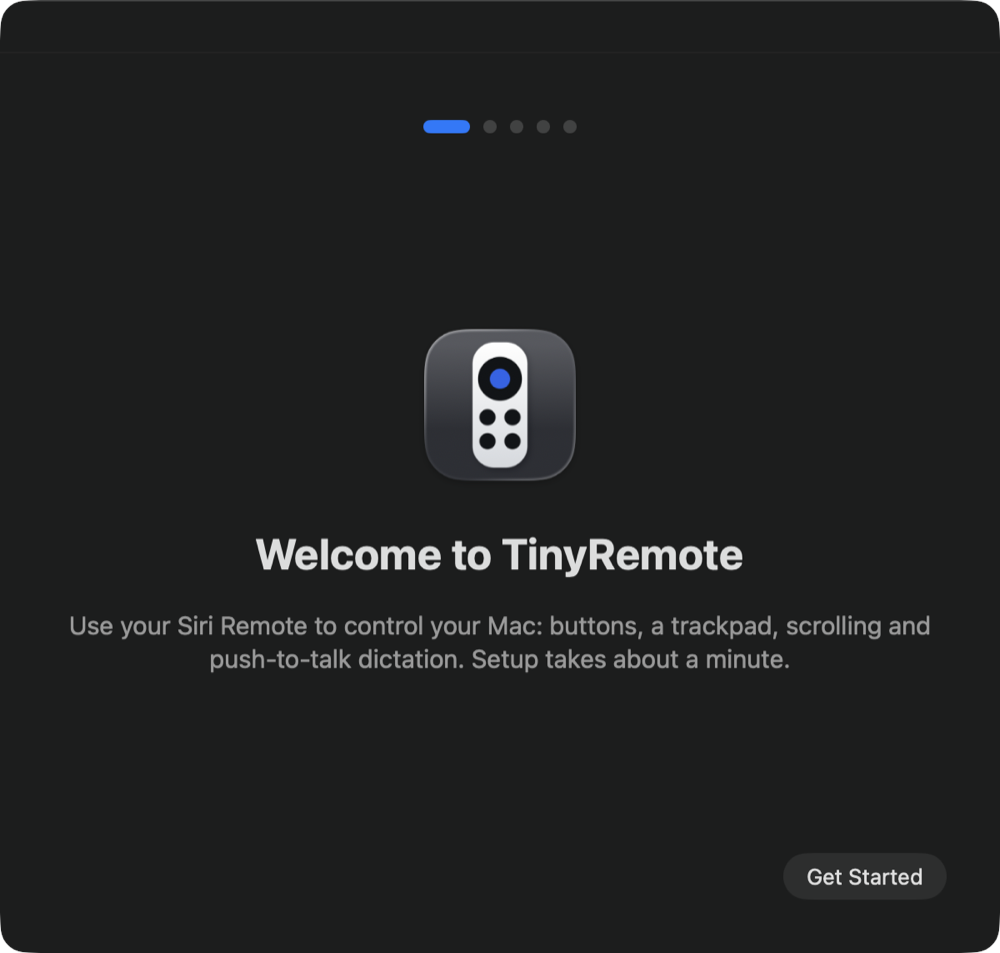
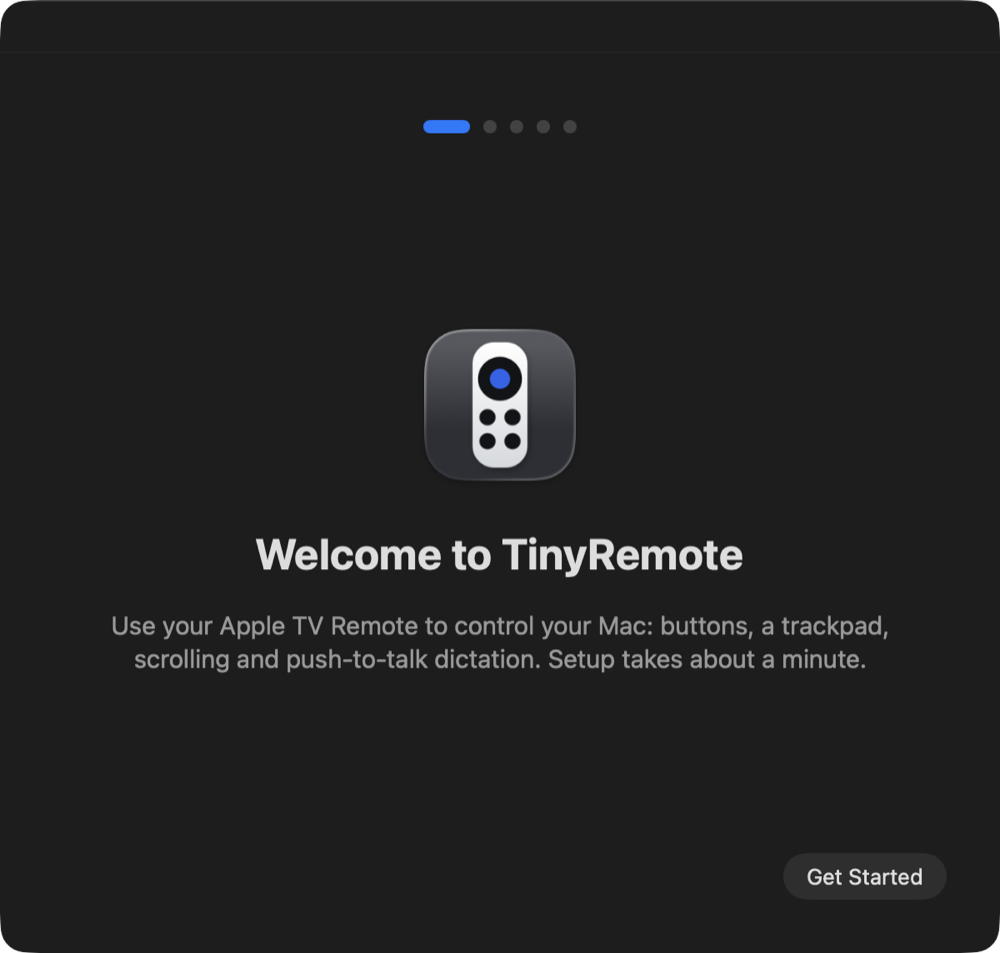
Call it the Apple TV Remote everywhere: app text, README, artwork, changelog

Changed region(s): [[0.062, 0.639, 0.93, 0.6999]]

diff --git a/tools/make-readme-art.swift b/tools/make-readme-art.swift
@@ -55,7 +55,7 @@ func banner(width: CGFloat, height: CGFloat, dark: Bool, path: String) {
         let textX = height * 0.12 + iconSize + height * 0.04
         let textWidth = width - textX - height * 0.1
         text("TinyRemote", NSPoint(x: textX, y: height * 0.26), size: height * 0.2, weight: .bold, color: .white, width: textWidth, height: height * 0.3, flip: flip)
-        text("Your Siri Remote, made for your Mac.", NSPoint(x: textX, y: height * 0.51), size: height * 0.075, weight: .medium,
+        text("Your Apple TV Remote, made for your Mac.", NSPoint(x: textX, y: height * 0.51), size: height * 0.075, weight: .medium,
              color: color(0xFFFFFF, 0.92), width: textWidth, height: height * 0.12, flip: flip)
         text("Remap every button · Trackpad · App-aware · Push-to-talk dictation", NSPoint(x: textX, y: height * 0.64),
              size: height * 0.048, color: color(0xFFFFFF, 0.7), width: textWidth, height: height * 0.1, flip: flip)
@@ -75,7 +75,7 @@ func socialPreview(path: String) {
         logo.draw(in: flip(NSRect(x: (width - 300) / 2, y: 30, width: 300, height: 300)))
         let center = width / 2, textWidth = width - 160
         text("TinyRemote", NSPoint(x: center, y: 330), size: 104, weight: .bold, color: .white, align: .center, width: textWidth, height: 130, flip: flip)
-        text("Your Siri Remote, made for your Mac.", NSPoint(x: center, y: 462), size: 44, weight: .medium,
+        text("Your Apple TV Remote, made for your Mac.", NSPoint(x: center, y: 462), size: 44, weight: .medium,
              color: color(0xFFFFFF, 0.92), align: .center, width: textWidth, height: 60, flip: flip)
         text("Remap every button · Trackpad · App-aware · Push-to-talk dictation", NSPoint(x: center, y: 530),
              size: 30, color: color(0xFFFFFF, 0.72), align: .center, width: textWidth, height: 46, flip: flip)

diff --git a/Sources/Onboarding.swift b/Sources/Onboarding.swift
@@ -111,7 +111,7 @@ struct OnboardingView: View {
             VStack(spacing: 18) {
                 Image(nsImage: NSApp.applicationIconImage).resizable().frame(width: 112, height: 112)
                 Text("Welcome to TinyRemote").font(.largeTitle.bold())
-                Text("Use your Siri Remote to control your Mac: buttons, a trackpad, scrolling and push-to-talk dictation. Setup takes about a minute.")
+                Text("Use your Apple TV Remote to control your Mac: buttons, a trackpad, scrolling and push-to-talk dictation. Setup takes about a minute.")
                     .font(.title3).foregroundStyle(.secondary).multilineTextAlignment(.center)
             }
         case .permissions:
@@ -136,7 +136,7 @@ struct OnboardingView: View {
             }
         case .remote:
             VStack(alignment: .leading, spacing: 20) {
-                header("Connect your Siri Remote", "Works with the aluminum Siri Remote (2nd and 3rd generation).")
+                header("Connect your Apple TV Remote", "Works with the aluminum Apple TV Remote (2nd and 3rd generation).")
                 VStack(alignment: .leading, spacing: 10) {
                     numbered(1, "Bring the remote close to your Mac.")
                     numbered(2, "Hold Back and Volume + together for about 5 seconds.")
@@ -145,7 +145,7 @@ struct OnboardingView: View {
                 Button("Open Bluetooth Settings") {
                     NSWorkspace.shared.open(URL(string: "x-apple.systempreferences:com.apple.BluetoothSettings")!)
                 }
-                status(remote.connected, done: "Siri Remote connected", waiting: "Waiting for the remote…")
+                status(remote.connected, done: "Apple TV Remote connected", waiting: "Waiting for the remote…")
             }
         case .tryIt:
             VStack(alignment: .leading, spacing: 20) {

diff --git a/Sources/SettingsView.swift b/Sources/SettingsView.swift
@@ -213,7 +213,7 @@ struct TouchPane: View {
     }
 }
 
-/// A drawn Siri Remote (2nd/3rd gen); each control selects its button.
+/// A drawn Apple TV Remote (2nd/3rd gen); each control selects its button.
 struct RemoteDrawing: View {
     @Binding var selected: RemoteButton
 
@@ -677,7 +677,7 @@ struct SetupPane: View {
                 step("Accessibility", "Lets TinyRemote send shortcuts, clicks and cursor movement.", done: accessibility) {
                     Button("Grant…") { Permissions.requestAccessibility() }
                 }
-                step("Siri Remote connected", remote.connected ? "Connected and ready." : "Pair it in Bluetooth settings: hold Back and Volume + near the Mac for 5 seconds.", done: remote.connected) {
+                step("Apple TV Remote connected", remote.connected ? "Connected and ready." : "Pair it in Bluetooth settings: hold Back and Volume + near the Mac for 5 seconds.", done: remote.connected) {
                     Button("Bluetooth…") { NSWorkspace.shared.open(URL(string: "x-apple.systempreferences:com.apple.BluetoothSettings")!) }
                 }
                 step("Exclusive access", remote.exclusive ? "Only TinyRemote handles the remote, so macOS won't also react to Play or Volume." : "Another app (like GoatRemote) is holding the remote. Quit it and remove it from Login Items.", done: remote.exclusive || !remote.connected) {

diff --git a/Sources/Remote.swift b/Sources/Remote.swift
@@ -2,14 +2,14 @@ import AppKit
 import IOKit.hid
 
 let remoteVendorID = 76    // Apple
-let remoteProductID = 788  // Siri Remote (2nd/3rd gen)
+let remoteProductID = 788  // Apple TV Remote (2nd/3rd gen)
 
 func log(_ message: String) {
     fputs("\(Date()) \(message)\n", stderr)
     fflush(stderr)
 }
 
-/// Reads the Siri Remote (buttons via HID, touch surface via MultitouchSupport) and runs the mapped actions.
+/// Reads the Apple TV Remote (buttons via HID, touch surface via MultitouchSupport) and runs the mapped actions.
 final class Remote: ObservableObject {
     static let shared = Remote()
     /// Input Monitoring only takes effect for a process started after it was granted.
@@ -123,7 +123,7 @@ final class Remote: ObservableObject {
         var found: [String] = []
         if !Permissions.inputMonitoring { found.append("Input Monitoring is off") }
         if !Permissions.accessibility { found.append("Accessibility is off") }
-        if !connected { found.append("Siri Remote not connected") } else if !exclusive { found.append("Another app is using the remote") }
+        if !connected { found.append("Apple TV Remote not connected") } else if !exclusive { found.append("Another app is using the remote") }
         if found != problems { problems = found }
     }
 

diff --git a/Sources/Voice.swift b/Sources/Voice.swift
@@ -146,7 +146,7 @@ struct VoicePane: View {
                     Text("Not available yet. Your dictation app records from the microphone chosen in that app, such as your AirPods or the Mac's built-in mic.")
                     VStack(alignment: .leading, spacing: 6) {
                         Text("Why it's off").font(.headline)
-                        bullet("macOS doesn't let apps use the Siri Remote's microphone. The only known way is to turn on Bluetooth debug logging for the whole Mac and read the remote's audio out of that log with admin rights.")
+                        bullet("macOS doesn't let apps use the Apple TV Remote's microphone. The only known way is to turn on Bluetooth debug logging for the whole Mac and read the remote's audio out of that log with admin rights.")
                         bullet("That log includes private data from every Bluetooth device, and the capture grows in memory while it runs.")
                         bullet("It needs Apple's PacketLogger (a free developer download), an admin password, a configuration profile, and an extra audio driver.")
                         bullet("The remote only sends audio while the mic button is held.")

diff --git a/Sources/Config.swift b/Sources/Config.swift
@@ -22,7 +22,7 @@ enum RemoteButton: String, Codable, CodingKeyRepresentable, CaseIterable, Identi
         }
     }
 
-    /// HID (usage page, usage) reported by the Siri Remote (2nd/3rd gen), from discovery.
+    /// HID (usage page, usage) reported by the Apple TV Remote (2nd/3rd gen), from discovery.
     static func from(page: UInt32, usage: UInt32) -> RemoteButton? {
         switch (page, usage) {
         case (0x0C, 0x42): .up

diff --git a/README.md b/README.md
@@ -1,7 +1,7 @@
 <p align="center">
   <picture>
     <source media="(prefers-color-scheme: dark)" srcset="docs/banner-dark.png">
-    <img src="docs/banner.png" alt="TinyRemote: your Siri Remote, made for your Mac">
+    <img src="docs/banner.png" alt="TinyRemote: your Apple TV Remote, made for your Mac">
   </picture>
 </p>
 
@@ -23,7 +23,7 @@
   &nbsp;·&nbsp; <a href="CHANGELOG.md">Changelog</a>
 </p>
 
-The Siri Remote is a lovely little controller: a clickpad, a touch surface and a handful of buttons, all on Bluetooth. Paired with a Mac, it mostly sits in a drawer.
+The Apple TV Remote is a lovely little controller: a clickpad, a touch surface and a handful of buttons, all on Bluetooth. Paired with a Mac, it mostly sits in a drawer.
 
 **TinyRemote turns it into a couch-friendly Mac controller.** You can move the pointer, click, scroll, switch desktops, go back a page and start dictation, and you can remap every button to whatever you like. It's a single 3 MB menu-bar app with no AI assistant, background services or admin helpers.
 
@@ -45,7 +45,7 @@ Every one of these is a default you can change.
 <p align="center">
   <picture>
     <source media="(prefers-color-scheme: dark)" srcset="docs/remote-map-dark.png">
-    <img src="docs/remote-map.png" width="820" alt="Siri Remote with each button's default action">
+    <img src="docs/remote-map.png" width="820" alt="Apple TV Remote with each button's default action">
   </picture>
 </p>
 
@@ -140,7 +140,7 @@ Build with `./build.sh` and check with `--self-test` (see [Development](#develop
 
 ## Install
 
-**Requirements:** a Mac with Apple silicon running macOS 15 or later, and an aluminum Siri Remote (2nd or 3rd generation).
+**Requirements:** a Mac with Apple silicon running macOS 15 or later, and an aluminum Apple TV Remote (2nd or 3rd generation).
 
 ### One command
 
@@ -175,25 +175,25 @@ TinyRemote checks for new releases on launch and every few hours, then installs 
 <details>
 <summary><b>Do I need to point the remote at my Mac?</b></summary>
 
-No. The Siri Remote talks to your Mac over Bluetooth, so it works from anywhere in the room, pointed anywhere. Macs don't have IR receivers anymore. The remote's IR emitter is only for TVs and soundbars.
+No. The Apple TV Remote talks to your Mac over Bluetooth, so it works from anywhere in the room, pointed anywhere. Macs don't have IR receivers anymore. The remote's IR emitter is only for TVs and soundbars.
 </details>
 
 <details>
 <summary><b>Can the remote be used as a microphone?</b></summary>
 
-Not by TinyRemote. macOS doesn't let apps use the Siri Remote's microphone. The only known way is to turn on Bluetooth debug logging for the whole Mac and read the audio out of that log with admin rights. That log includes private data from every Bluetooth device, and the capture keeps growing in memory. Instead, the mic button triggers your dictation app, which listens through your Mac's microphone or AirPods.
+Not by TinyRemote. macOS doesn't let apps use the Apple TV Remote's microphone. The only known way is to turn on Bluetooth debug logging for the whole Mac and read the audio out of that log with admin rights. That log includes private data from every Bluetooth device, and the capture keeps growing in memory. Instead, the mic button triggers your dictation app, which listens through your Mac's microphone or AirPods.
 </details>
 
 <details>
 <summary><b>Which remotes work?</b></summary>
 
-The aluminum Siri Remote (2nd and 3rd generation, Lightning or USB-C). The older black-glass Siri Remote and the white Apple Remote aren't supported.
+The aluminum Apple TV Remote (2nd and 3rd generation, Lightning or USB-C). The older black-glass Apple TV Remote (2015) and the white Apple Remote aren't supported.
 </details>
 
 <details>
 <summary><b>Can I point the remote at the screen to move the pointer?</b></summary>
 
-No. The aluminum Siri Remote has no motion sensors, so the clickpad's touch surface moves the pointer instead.
+No. The aluminum Apple TV Remote has no motion sensors, so the clickpad's touch surface moves the pointer instead.
 </details>
 
 <details>
@@ -234,4 +234,4 @@ Issues and pull requests are welcome.
 
 ## License
 
-[MIT](LICENSE). TinyRemote isn't affiliated with Apple. Siri Remote is a trademark of Apple Inc.
+[MIT](LICENSE). TinyRemote isn't affiliated with Apple. Apple TV is a trademark of Apple Inc.

diff --git a/CHANGELOG.md b/CHANGELOG.md
@@ -19,7 +19,7 @@ TinyRemote is now public under the MIT license.
 
 ## 0.5.0 (2026-10-11)
 
-- **Welcome guide for new installs:** allow Input Monitoring and Accessibility (with a restart prompt when macOS needs one), connect the Siri Remote with a live connected check, try the buttons and clickpad, then finish with open-at-login
+- **Welcome guide for new installs:** allow Input Monitoring and Accessibility (with a restart prompt when macOS needs one), connect the Apple TV Remote with a live connected check, try the buttons and clickpad, then finish with open-at-login
 - Progress is kept across the Input Monitoring restart
 - **Setup → Run Setup Again** shows the guide any time
 - Existing installs skip the guide
@@ -58,7 +58,7 @@ TinyRemote is now public under the MIT license.
 
 ## 0.1.0 (2026-10-11)
 
-- First public build: a menu-bar app that turns the Siri Remote into a Mac controller
+- First public build: a menu-bar app that turns the Apple TV Remote into a Mac controller
 - Remappable buttons with press and long-press actions
 - Touch surface moves the pointer, with tap to click and a drag dead zone
 - Circle the outer ring to scroll
